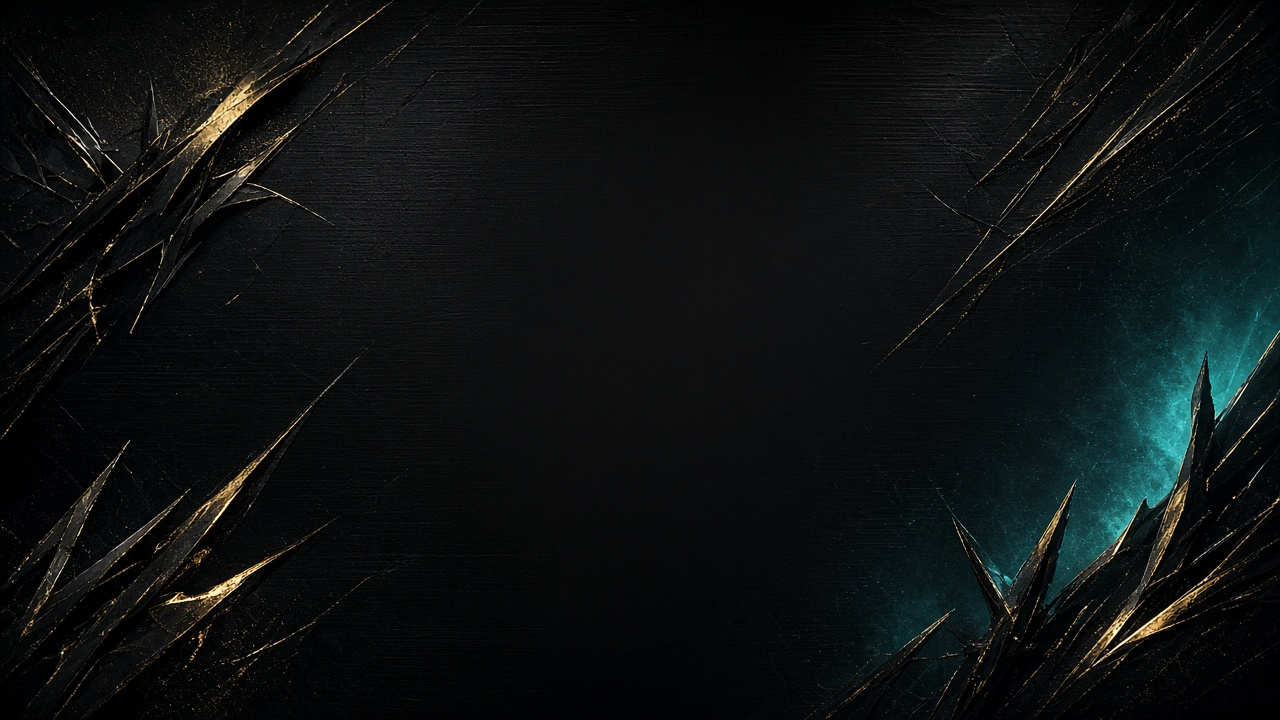
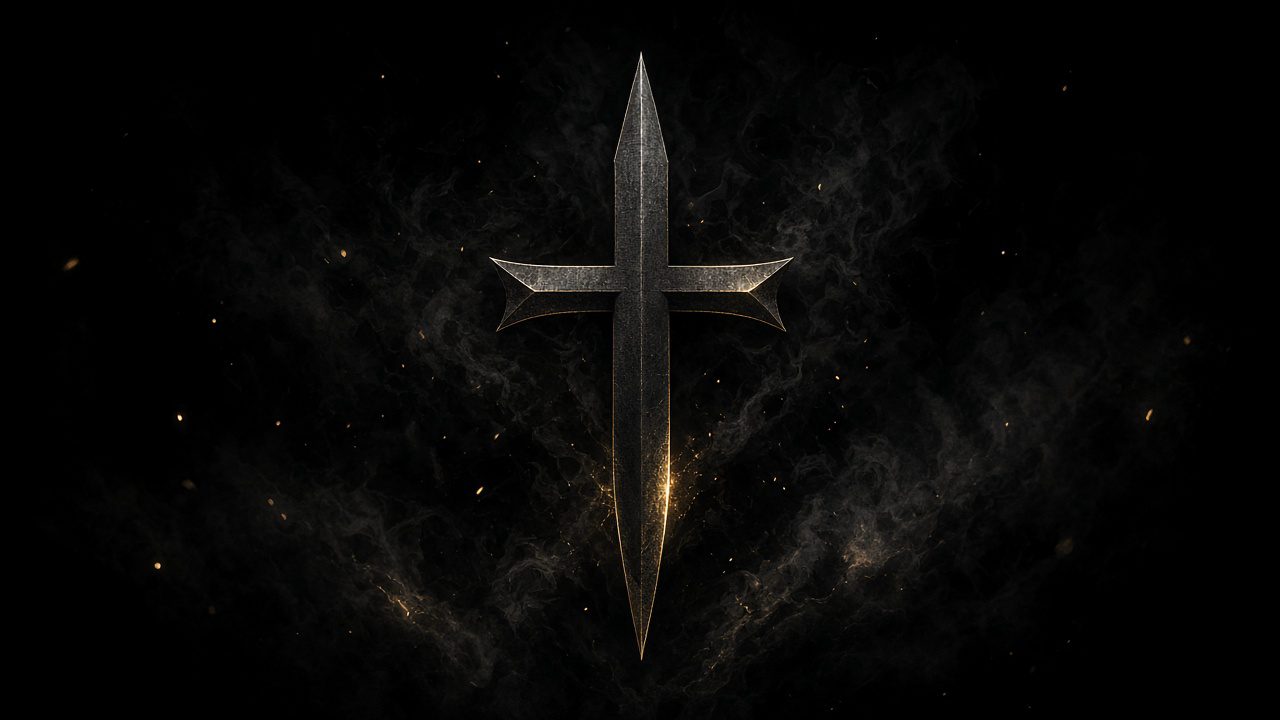
Homepage: ghost-cross background; restore jeans in lookbook.

diff --git a/index.html b/index.html
@@ -18,7 +18,7 @@
   <link rel="preconnect" href="https://fonts.googleapis.com">
   <link rel="preconnect" href="https://fonts.gstatic.com" crossorigin>
   <link href="https://fonts.googleapis.com/css2?family=Archivo:wght@400;500;600;700&family=Bebas+Neue&display=swap" rel="stylesheet">
-  <link rel="stylesheet" href="styles.css?v=drop4ship">
+  <link rel="stylesheet" href="styles.css?v=jeansok1">
 </head>
 <body>
   <div class="emotion-bg" aria-hidden="true"></div>
@@ -122,6 +122,7 @@
             </div>
           </a>
 
+
           <a class="tile" href="https://shop.emotionrides.com/" rel="noopener noreferrer">
             <div class="tile-bg tile-3"></div>
             <span class="tile-stamp">Limited</span>
@@ -131,7 +132,6 @@
               <p class="tile-price">This drop · $70</p>
             </div>
           </a>
-
           <a class="tile" href="https://shop.emotionrides.com/" rel="noopener noreferrer">
             <div class="tile-bg tile-4"></div>
             <span class="tile-stamp">Limited</span>

diff --git a/styles.css b/styles.css
@@ -52,7 +52,7 @@ body.nav-open { overflow: hidden; }
   pointer-events: none;
   background:
     linear-gradient(180deg, rgba(5,5,5,0.2) 0%, rgba(5,5,5,0.55) 55%, rgba(5,5,5,0.88) 100%),
-    url("emotion-bg-new.png") center / cover no-repeat,
+    url("emotion-bg-new.png?v=cross1") center / cover no-repeat,
     #050505;
 }
 
